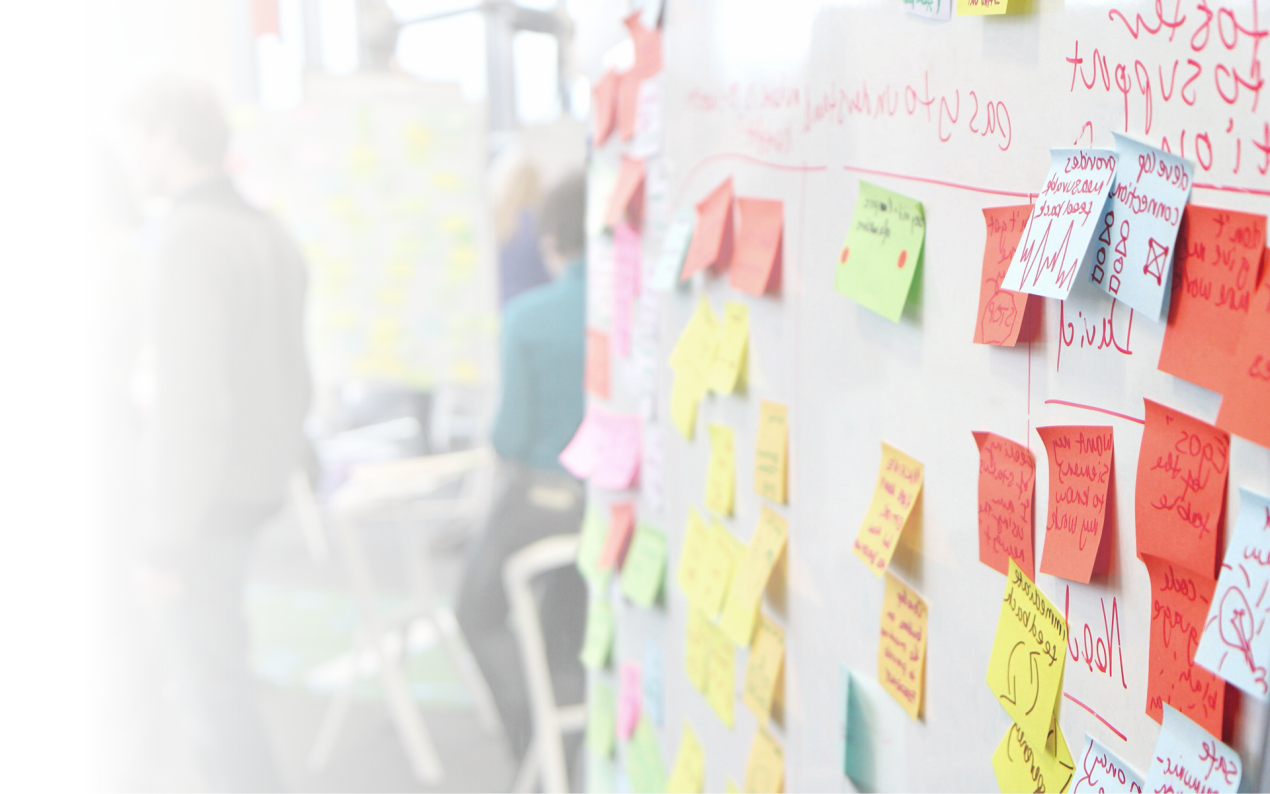
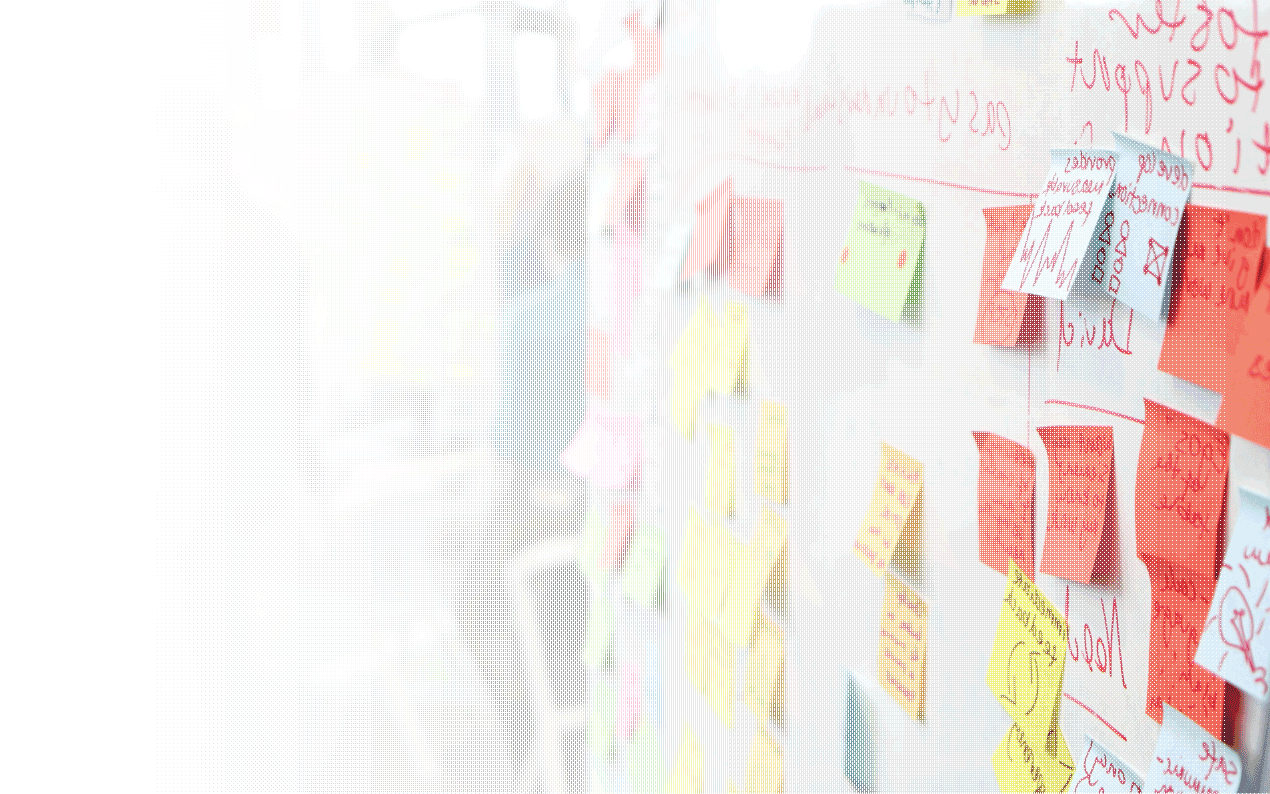
CO-THINK
Compress Imgs

diff --git a/co-think/css/main.css b/co-think/css/main.css
@@ -139,7 +139,7 @@ ul, li, a {text-decoration: none; list-style: none; color: black}
 	height: 100%;
 	position: absolute;
 	z-index: -1;
-	background-image: url('../img/stepsbg.png');
+	background-image: url('../img/stepsbg.jpg');
 	background-size: cover;
 	background-repeat: no-repeat;
 }
